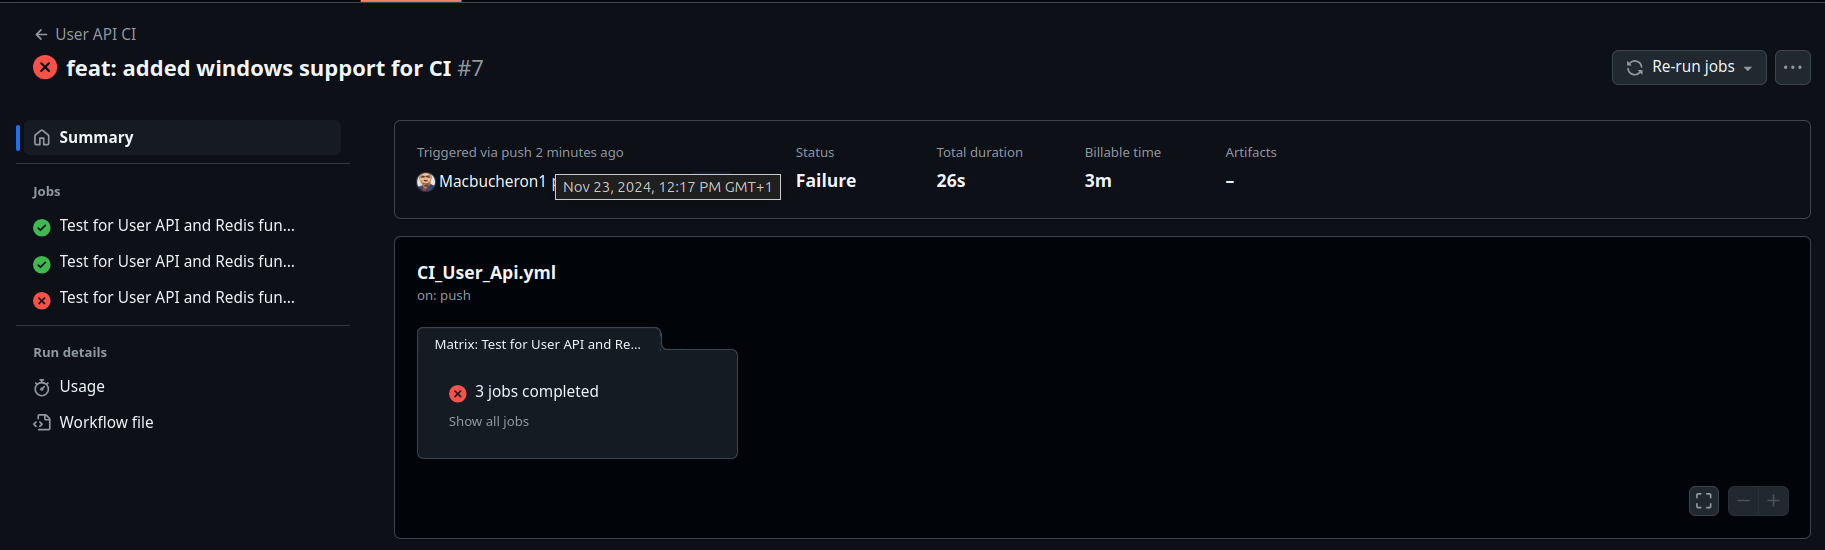
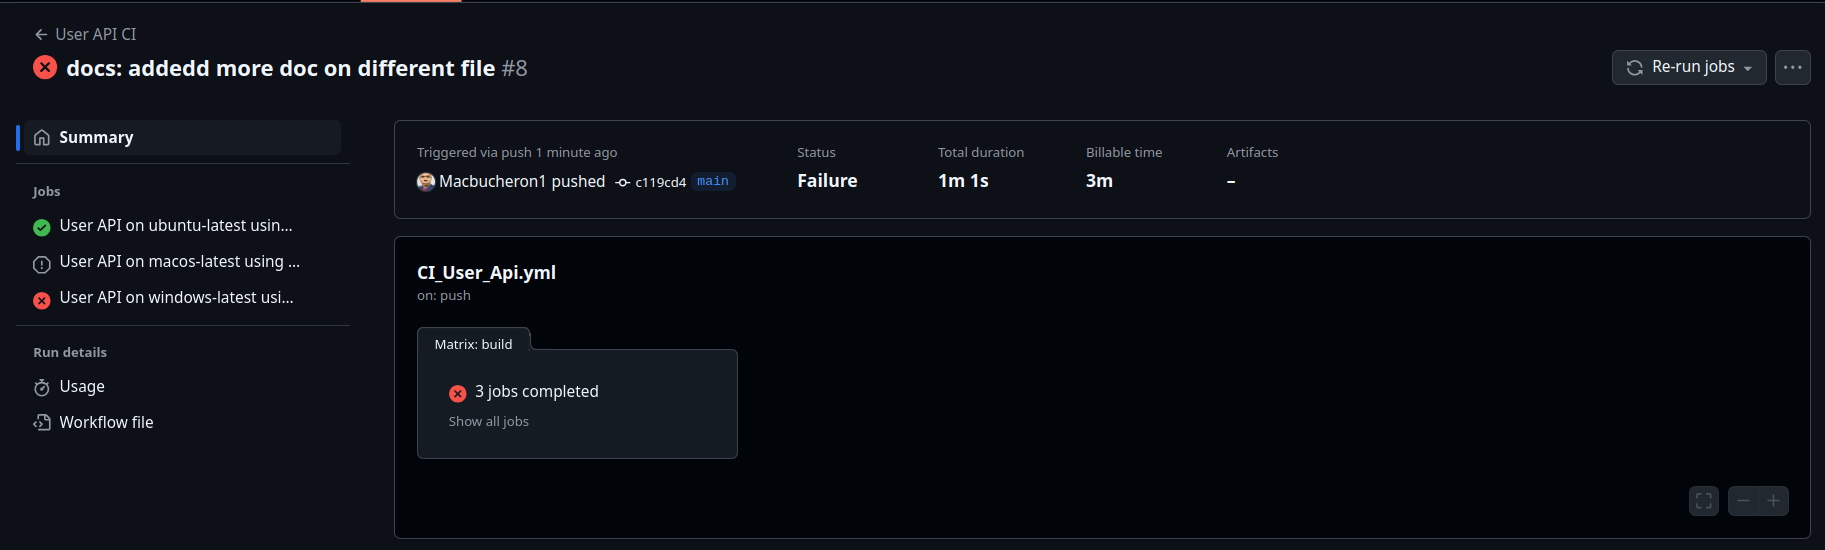
fix: trying to add windows CI

diff --git a/README.md b/README.md
@@ -11,10 +11,9 @@
 This is the repository for the Devops project at ECE Paris
 
 Made by:
+
 - Nathan DEPRAT [@Macbucheron1](https://github.com/Macbucheron1)
 - Ibrahim Diallo [@Xeroxx75](https://github.com/Xeroxx75)
-
-
 
 ## Install
 
@@ -22,23 +21,23 @@ Follow those step to install the project localy:
 
 1. Clone the repository:
 
-    ```bash
-    git clone https://github.com/Macbucheron1/EceDevops_lab1.git
-    ```
+   ```bash
+   git clone https://github.com/Macbucheron1/EceDevops_lab1.git
+   ```
 
 2. Access the project file :
 
-    ```bash
-    cd nom-du-projet
-    ```
+   ```bash
+   cd nom-du-projet
+   ```
 
 3. Install dependencies :
 
-    - With **npm** :
+   - With **npm** :
 
-      ```bash
-      npm install
-      ```
+     ```bash
+     npm install
+     ```
 
 If you correctly followed all of the step you are now ready to use the project.
 
@@ -78,8 +77,8 @@ One of the feature of Github Actions is that it can run on multiple OS. Here is 
 
 ![CI_UserApi_Windows](./images/CI_CD/FailedWindowsCI.png)
 
-The third job is failing because the Redis server is not running. This is because the Redis server is not available on Windows.
-
+The third job is failing because the Redis server is not available on Windows.
+The second one as being stopped because of the error in the third job to economize resources.
 
 ## 3. Configuring and provisioning a virtual environment and run our application using the IaC approach
 
